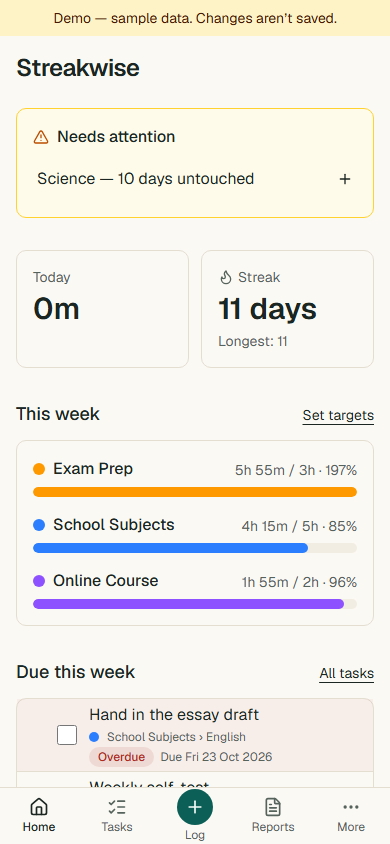
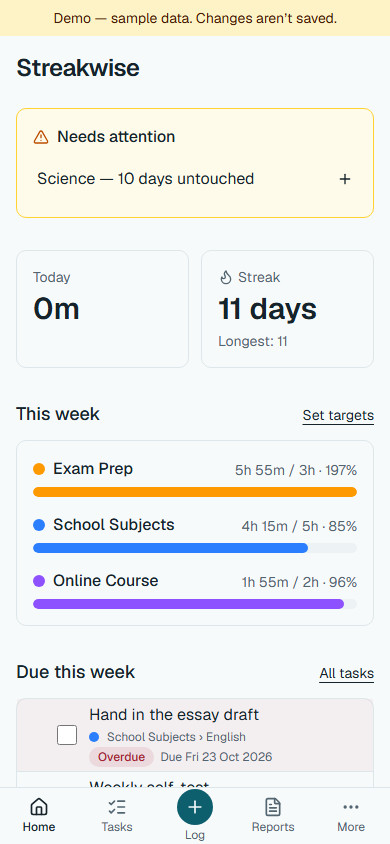
Cooler palette for v1.0.0 (#33)
* chore: cooler palette and AA-safe hover tints

* docs: record the cooler palette (PR #33)

Changed region(s): [[0.0308, 0.8934, 0.0615, 0.9242]]

diff --git a/src/index.css b/src/index.css
@@ -60,40 +60,40 @@
   --series-6: #008300;
   --series-7: #4a3aa7;
   --series-8: #e34948;
-  /* The Streakwise palette: warm paper and sand neutrals, deep teal for actions, pale mint as
-     the highlight. Every pair below meets WCAG AA (4.5:1) in both themes. */
-  --background: #fbf9f4;
-  --foreground: #1b2622;
+  /* The Streakwise palette: cool paper and slate neutrals, deep teal-cyan for actions, pale ice
+     blue as the highlight. Every pair below meets WCAG AA (4.5:1) in both themes. */
+  --background: #f7fafb;
+  --foreground: #16232a;
   --card: #ffffff;
-  --card-foreground: #1b2622;
+  --card-foreground: #16232a;
   --popover: #ffffff;
-  --popover-foreground: #1b2622;
-  --primary: #0c5f57;
-  --primary-foreground: #f4fbf8;
-  --secondary: #eee7da;
-  --secondary-foreground: #27332d;
-  --muted: #f2ede2;
-  --muted-foreground: #55635c;
-  --accent: #ddefe9;
-  --accent-foreground: #0d453f;
-  --destructive: #b02a22;
-  --border: #e4ded1;
-  --input: #d9d2c3;
-  --ring: #0c5f57;
+  --popover-foreground: #16232a;
+  --primary: #0e5f6e;
+  --primary-foreground: #f2fbfc;
+  --secondary: #e7eff2;
+  --secondary-foreground: #1f2f36;
+  --muted: #edf3f5;
+  --muted-foreground: #526570;
+  --accent: #dbedf1;
+  --accent-foreground: #0b404b;
+  --destructive: #a82232;
+  --border: #dde7ea;
+  --input: #d1dde1;
+  --ring: #0e5f6e;
   --chart-1: oklch(0.87 0 0);
   --chart-2: oklch(0.556 0 0);
   --chart-3: oklch(0.439 0 0);
   --chart-4: oklch(0.371 0 0);
   --chart-5: oklch(0.269 0 0);
   --radius: 0.625rem;
-  --sidebar: #f6f2e8;
-  --sidebar-foreground: #1b2622;
-  --sidebar-primary: #0c5f57;
-  --sidebar-primary-foreground: #f4fbf8;
-  --sidebar-accent: #e4efe9;
-  --sidebar-accent-foreground: #0d453f;
-  --sidebar-border: #e4ded1;
-  --sidebar-ring: #0c5f57;
+  --sidebar: #f2f7f9;
+  --sidebar-foreground: #16232a;
+  --sidebar-primary: #0e5f6e;
+  --sidebar-primary-foreground: #f2fbfc;
+  --sidebar-accent: #e2eef2;
+  --sidebar-accent-foreground: #0b404b;
+  --sidebar-border: #dde7ea;
+  --sidebar-ring: #0e5f6e;
 }
 
 @media (prefers-color-scheme: dark) {
@@ -106,37 +106,37 @@
     --series-6: #008300;
     --series-7: #9085e9;
     --series-8: #e66767;
-    --background: #111815;
-    --foreground: #eaf1ed;
-    --card: #18201d;
-    --card-foreground: #eaf1ed;
-    --popover: #18201d;
-    --popover-foreground: #eaf1ed;
-    --primary: #6fd3bd;
-    --primary-foreground: #08201c;
-    --secondary: #232e29;
-    --secondary-foreground: #eaf1ed;
-    --muted: #232e29;
-    --muted-foreground: #a9b9b1;
-    --accent: #22332d;
-    --accent-foreground: #d6f2e9;
-    --destructive: #ff8f86;
+    --background: #10181b;
+    --foreground: #e9f1f4;
+    --card: #172125;
+    --card-foreground: #e9f1f4;
+    --popover: #172125;
+    --popover-foreground: #e9f1f4;
+    --primary: #6fd2d9;
+    --primary-foreground: #062124;
+    --secondary: #223034;
+    --secondary-foreground: #e9f1f4;
+    --muted: #223034;
+    --muted-foreground: #a7bbc2;
+    --accent: #1f353b;
+    --accent-foreground: #d2f0f4;
+    --destructive: #ff8e9b;
     --border: oklch(1 0 0 / 12%);
     --input: oklch(1 0 0 / 18%);
-    --ring: #6fd3bd;
+    --ring: #6fd2d9;
     --chart-1: oklch(0.87 0 0);
     --chart-2: oklch(0.556 0 0);
     --chart-3: oklch(0.439 0 0);
     --chart-4: oklch(0.371 0 0);
     --chart-5: oklch(0.269 0 0);
-    --sidebar: #141c19;
-    --sidebar-foreground: #eaf1ed;
-    --sidebar-primary: #6fd3bd;
-    --sidebar-primary-foreground: #08201c;
-    --sidebar-accent: #22332d;
-    --sidebar-accent-foreground: #d6f2e9;
+    --sidebar: #131d21;
+    --sidebar-foreground: #e9f1f4;
+    --sidebar-primary: #6fd2d9;
+    --sidebar-primary-foreground: #062124;
+    --sidebar-accent: #1f353b;
+    --sidebar-accent-foreground: #d2f0f4;
     --sidebar-border: oklch(1 0 0 / 12%);
-    --sidebar-ring: #6fd3bd;
+    --sidebar-ring: #6fd2d9;
   }
 }
 

diff --git a/src/components/ui/button.tsx b/src/components/ui/button.tsx
@@ -8,7 +8,7 @@ const buttonVariants = cva(
   {
     variants: {
       variant: {
-        default: 'bg-primary text-primary-foreground hover:bg-primary/80',
+        default: 'bg-primary text-primary-foreground hover:bg-primary/90',
         outline:
           'border-border bg-background hover:bg-muted hover:text-foreground aria-expanded:bg-muted aria-expanded:text-foreground dark:border-input dark:bg-input/30 dark:hover:bg-input/50',
         secondary:
@@ -16,7 +16,7 @@ const buttonVariants = cva(
         ghost:
           'hover:bg-muted hover:text-foreground aria-expanded:bg-muted aria-expanded:text-foreground dark:hover:bg-muted/50',
         destructive:
-          'bg-destructive/10 text-destructive hover:bg-destructive/20 focus-visible:border-destructive/40 focus-visible:ring-destructive/20 dark:bg-destructive/20 dark:hover:bg-destructive/30 dark:focus-visible:ring-destructive/40',
+          'bg-destructive/10 text-destructive hover:bg-destructive/20 focus-visible:border-destructive/40 focus-visible:ring-destructive/20 dark:bg-destructive/20 dark:hover:bg-destructive/25 dark:focus-visible:ring-destructive/40',
         link: 'text-primary underline-offset-4 hover:underline',
       },
       size: {

diff --git a/src/components/ui/badge.tsx b/src/components/ui/badge.tsx
@@ -8,7 +8,7 @@ const badgeVariants = cva(
   {
     variants: {
       variant: {
-        default: 'bg-primary text-primary-foreground [a]:hover:bg-primary/80',
+        default: 'bg-primary text-primary-foreground [a]:hover:bg-primary/90',
         secondary: 'bg-secondary text-secondary-foreground [a]:hover:bg-secondary/80',
         destructive:
           'bg-destructive/10 text-destructive focus-visible:ring-destructive/20 dark:bg-destructive/20 dark:focus-visible:ring-destructive/40 [a]:hover:bg-destructive/20',

diff --git a/docs/PROGRESS.md b/docs/PROGRESS.md
@@ -1,24 +1,24 @@
 # Progress
 
-_Last updated: 2026-10-25 by Claude (M8 Polish merged into `develop` as #32: WCAG AA on every screen, the
-final palette, track management, screenshots and README; next: the owner looks at the new colours and
-decides on R4)_
+_Last updated: 2026-10-25 by Claude (M8 merged as #32 and the palette cooled in #33: WCAG AA on every
+screen, cool paper/slate with teal-cyan, track management, screenshots and README; next: the owner
+looks at it and decides on R4)_
 
 ## Milestones
 
-| #             | Status    | PR  | Notes / deferred items                                                                                                                                                                    |
-| ------------- | --------- | --- | ----------------------------------------------------------------------------------------------------------------------------------------------------------------------------------------- |
-| M0 Scaffold   | ✅ done   | #1  |                                                                                                                                                                                           |
-| M1 Foundation | ✅ done   | #7  | Repository covers nodes, settings, seed so far; later milestones add their own methods                                                                                                    |
-| M2 Logging    | ✅ done   | #8  | All MUST + SHOULD done. Deferred: TREE-7 (COULD: drag-and-drop, move to another parent)                                                                                                   |
-| M3 Dashboard  | ✅ done   | #9  | All MUST + SHOULD done. Deferred: NEG-2 (COULD: mute warnings; needs a migration), HEAT-4 (COULD: heatmap per track)                                                                      |
-| M4 MCP        | 🔍 review | #11 | All MUST + SHOULD built (MCP-1–9 M4 tools, SET-4). CI green; checked live on the preview with curl and MCP Inspector                                                                      |
-| M5 Progress   | ✅ done   | #16 | All MUST + SHOULD built. Deferred: TASK-10 (COULD: complete a weekly task for last week)                                                                                                  |
-| M5A Accounts  | ✅ done   | #20 | Merged into `develop` 2026-10-09. Not live yet: R3 is held by the owner                                                                                                                   |
-| M6 Reports    | ✅ done   | #21 | All MUST + SHOULD + COULD (REP-3, SHARE-6) built. No migration. Merged into `develop` 2026-10-09 (owner's OK)                                                                             |
-| M7 Demo + PWA | ✅ done   | #26 | DEMO-1–5, PWA-1–3 (incl. COULD PWA-3), e2e suite in CI. No migration. Merged into `develop` 2026-10-10 (owner's OK); live in R3a (2026-10-10)                                             |
-| Cleanup       | ✅ done   | #27 | Migration `0004` (applied 2026-10-10), old-passcode claim removed (D19). Merged into `develop` 2026-10-10                                                                                 |
-| M8 Polish     | ✅ done   | #32 | WCAG AA checks on all 8 screens × 2 themes, final palette, "Manage track", screenshots, README, architecture.md. Merged into `develop` 2026-10-25 (squash `c324a0b`); R4 is the next step |
+| #             | Status    | PR       | Notes / deferred items                                                                                                                                                                                                                        |
+| ------------- | --------- | -------- | --------------------------------------------------------------------------------------------------------------------------------------------------------------------------------------------------------------------------------------------- |
+| M0 Scaffold   | ✅ done   | #1       |                                                                                                                                                                                                                                               |
+| M1 Foundation | ✅ done   | #7       | Repository covers nodes, settings, seed so far; later milestones add their own methods                                                                                                                                                        |
+| M2 Logging    | ✅ done   | #8       | All MUST + SHOULD done. Deferred: TREE-7 (COULD: drag-and-drop, move to another parent)                                                                                                                                                       |
+| M3 Dashboard  | ✅ done   | #9       | All MUST + SHOULD done. Deferred: NEG-2 (COULD: mute warnings; needs a migration), HEAT-4 (COULD: heatmap per track)                                                                                                                          |
+| M4 MCP        | 🔍 review | #11      | All MUST + SHOULD built (MCP-1–9 M4 tools, SET-4). CI green; checked live on the preview with curl and MCP Inspector                                                                                                                          |
+| M5 Progress   | ✅ done   | #16      | All MUST + SHOULD built. Deferred: TASK-10 (COULD: complete a weekly task for last week)                                                                                                                                                      |
+| M5A Accounts  | ✅ done   | #20      | Merged into `develop` 2026-10-09. Not live yet: R3 is held by the owner                                                                                                                                                                       |
+| M6 Reports    | ✅ done   | #21      | All MUST + SHOULD + COULD (REP-3, SHARE-6) built. No migration. Merged into `develop` 2026-10-09 (owner's OK)                                                                                                                                 |
+| M7 Demo + PWA | ✅ done   | #26      | DEMO-1–5, PWA-1–3 (incl. COULD PWA-3), e2e suite in CI. No migration. Merged into `develop` 2026-10-10 (owner's OK); live in R3a (2026-10-10)                                                                                                 |
+| Cleanup       | ✅ done   | #27      | Migration `0004` (applied 2026-10-10), old-passcode claim removed (D19). Merged into `develop` 2026-10-10                                                                                                                                     |
+| M8 Polish     | ✅ done   | #32, #33 | WCAG AA checks on all 8 screens × 2 themes, final palette, "Manage track", screenshots, README, architecture.md. Merged into `develop` 2026-10-25 (squash `c324a0b`); the owner then asked for a cooler palette (PR #33); R4 is the next step |
 
 ## Releases to production (budget: max 8 per month, ~15 of 300 credits each)
 
@@ -182,12 +182,19 @@ decision).
 
 - **Accessibility:** `e2e/a11y.spec.ts` runs axe-core with the WCAG 2.1 A/AA rules over all eight
   screens, in light and dark, on the phone and desktop projects (32 checks). Tinted "overdue" rows
-  failed at first: light `--muted-foreground` is now `#55635c` and `--destructive` `#b02a22`, which
-  clears 4.5:1 on cards, muted backgrounds, and the 5–10% destructive tints.
-- **Palette (owner asked for a final colour scheme):** warm paper and sand neutrals, deep teal
-  (`#0c5f57`) for actions, pale mint for highlights, brick red for destructive actions; dark mode is
-  the same roles on a near-black green background with mint (`#6fd3bd`) as primary. Track and chart
-  palettes are unchanged. Every text/background pair measures 5.4:1–15.7:1.
+  failed at first: light `--muted-foreground` is now `#526570` and `--destructive` `#a82232`, which
+  clear 4.5:1 on cards, muted backgrounds, and the 5–10% destructive tints. The cooler teal also
+  pushed primary **hover** tints under 4.5:1 (the pointer rests on the Log link after navigation, so
+  axe saw it): primary buttons and badges now hover at `/90`, and the dark destructive hover is
+  `/25`.
+- **Palette (owner asked for a final colour scheme, then asked for it cooler):** cool paper and
+  slate neutrals, deep teal-cyan (`#0e5f6e`) for actions, pale ice blue for highlights, a cool brick
+  red for destructive actions; dark mode is the same roles on a near-black blue-green background
+  with aqua (`#6fd2d9`) as primary. Track and chart palettes are unchanged. Every text/background
+  pair measures 5.4:1–15.7:1.
+- **Cooler follow-up (PR #33):** the owner asked for the first palette to be cooler, so the tokens
+  moved from warm paper/mint to cool paper/slate with teal-cyan and ice blue; the hover tints were
+  fixed in the same PR (see the accessibility bullet), and the screenshots were regenerated.
 - **Delete/manage a track (owner asked for it):** a "Manage track" button on a track's page opens the
   existing node dialog, so rename, recolour, add a child, archive, restore, and delete (TREE-1–3,
   TREE-5) work without going through Settings → Structure. A successful delete returns to Tracks;
@@ -464,8 +471,8 @@ With D15, `SUPABASE_URL` / `SUPABASE_SECRET_KEY` are the same in every Netlify c
 
 ## Open questions for the owner
 
-- Is the new palette right for v1.0.0? Warm paper, sand, deep teal, and mint — easy to warm up or
-  cool down before R4.
+- Is the cooler palette right for v1.0.0? Cool paper, slate, teal-cyan, and ice blue — easy to
+  nudge warmer or cooler again before R4.
 - Say yes/no to R4 once the checklist passes (merge `develop` → `main`, then deploy production from
   `main`).
 - Should the Netlify entries stay in Supabase's URL configuration until R4, or be removed with the
@@ -473,10 +480,11 @@ With D15, `SUPABASE_URL` / `SUPABASE_SECRET_KEY` are the same in every Netlify c
 
 ## Decisions made during the build
 
-- M8: the final palette is warm paper and sand neutrals with deep teal for actions, pale mint for
-  highlights, and brick red for destructive actions; dark mode swaps the same roles on a near-black
-  green background. Track and score-chart colours stay separate (`--series-*`), so a theme change
-  never re-colours someone's data.
+- M8: the final palette is cool paper and slate neutrals with deep teal-cyan for actions, pale ice
+  blue for highlights, and a cool brick red for destructive actions; dark mode swaps the same roles
+  on a near-black blue-green background (the owner asked for it cooler than the first version).
+  Track and score-chart colours stay separate (`--series-*`), so a theme change never re-colours
+  someone's data.
 - M8: contrast is enforced by axe-core in the e2e suite (all 8 screens × light/dark × phone/desktop)
   rather than by eye or by unit tests, because it measures the real computed colours.
 - M8: a track is managed from its own page ("Manage track" → the existing `NodeDialog`), so the

diff --git a/docs/SPEC.md b/docs/SPEC.md
@@ -684,7 +684,7 @@ sharing, demo, polish) and can resume at any time from docs/PROGRESS.md.
 | D18 | **General sample tracks (owner's request, 2026-10-09):** the seed for new accounts and the demo use Exam Prep (Flashcards, Practice), School Subjects (Maths, English), and Online Course, with a scored "Weekly self-test". The owner's own track names appear nowhere in the code, docs, or tests. Existing accounts keep their data. | The app is public; the starter tracks should suit any student, multitasker, or high achiever, and not reveal the owner's studies |
 | D19 | **Single-user leftovers removed (2026-10-10, as planned in D17):** after the owner claimed the old data, migration `0004` makes `user_id` required on every data table and drops the old `settings` table, the old RPCs, and the claim functions. The code drops the old-passcode form, `/api/auth/passcode`, the `sw_claim` cookie, and `APP_PASSCODE`; `MCP_SECRET` was already unused since D17. | Nothing is left to claim; fewer moving parts and no secret that no longer does anything |
 | D20 | **Hosting moves from Netlify to Vercel's free Hobby plan (owner's decision, 2026-10-10).** R3a was the last Netlify release. Vercel charges nothing per deploy (about 100 deployments a day on Hobby, 1M function requests a month) and fits the app's non-commercial use; limits: runtime logs kept 1 hour, non-commercial personal use only. The server moves to one deployed function (`api/server.ts`) that dispatches `/api/*`, `/auth/*`, `/mcp/*`, `/.well-known/*` to the unchanged handlers. Releases still need the owner's OK (OPS-4); R4 (v1.0.0) is the first Vercel release. | No deployment budget; Netlify credits were nearly exhausted, and Vercel's free limits are far above this app's traffic |
-| D21 | **Final colours and track management (owner's requests, 2026-10-25).** The v1.0.0 theme is warm paper and sand neutrals, deep teal for actions, pale mint for highlights, and brick red for destructive actions, with the same roles inverted in dark mode (the theme still follows the system setting). Track and score-chart colours keep their own validated palette. A track's page has a **Manage track** button that opens the same node dialog as Settings → Structure, so rename, recolour, add a child, archive, restore, and delete live where the track is (TREE-1–3, TREE-5). | The owner asked for a nicer, cohesive colour scheme for the final version, and for a way to delete a track without digging through Settings |
+| D21 | **Final colours and track management (owner's requests, 2026-10-25).** The v1.0.0 theme is cool paper and slate neutrals, deep teal-cyan for actions, pale ice blue for highlights, and a cool brick red for destructive actions, with the same roles inverted in dark mode (the theme still follows the system setting); the owner asked for the first version to be cooler. Track and score-chart colours keep their own validated palette. A track's page has a **Manage track** button that opens the same node dialog as Settings → Structure, so rename, recolour, add a child, archive, restore, and delete live where the track is (TREE-1–3, TREE-5). | The owner asked for a nicer, cohesive colour scheme for the final version, and for a way to delete a track without digging through Settings |
 
 ## B16. Out of scope
 

diff --git a/docs/architecture.md b/docs/architecture.md
@@ -61,9 +61,9 @@ seed (`services/seed.ts`); component tests use that seed too (`fakeApi`).
 ## Theme and accessibility (M8)
 
 - **One set of design tokens.** Colours are CSS custom properties in `src/index.css`
-  (Tailwind v4 `@theme inline`), so every shadcn/ui component picks them up. The palette is warm
-  paper and sand neutrals, deep teal for actions, pale mint for highlights, and brick red for
-  destructive actions. Dark mode swaps the same token names inside
+  (Tailwind v4 `@theme inline`), so every shadcn/ui component picks them up. The palette is cool
+  paper and slate neutrals, deep teal-cyan for actions, pale ice blue for highlights, and a cool
+  brick red for destructive actions. Dark mode swaps the same token names inside
   `@media (prefers-color-scheme: dark)`, following the system setting (no manual switch, SPEC §B11);
   printing overrides them again for black text on white.
 - **Charts keep their own colours.** The eight `--series-*` values are a separate categorical
